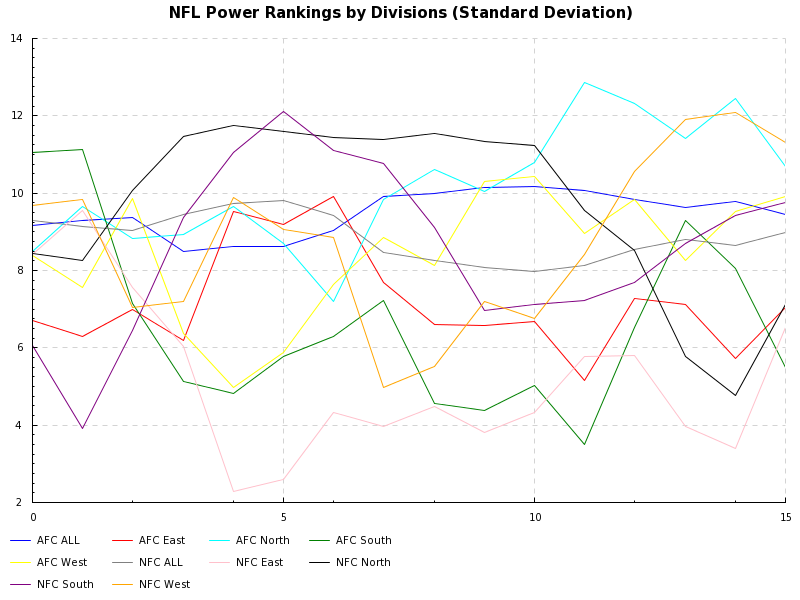
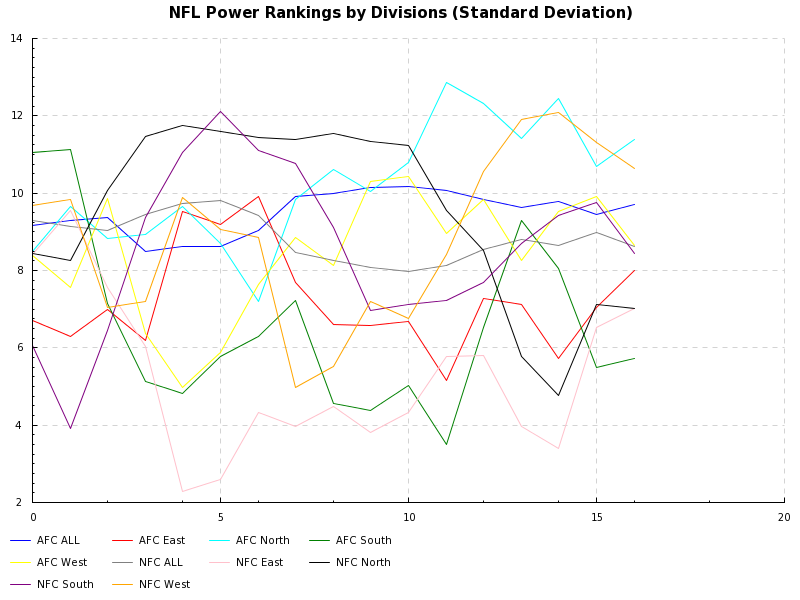
Week 16.

diff --git a/README.md b/README.md
@@ -1,5 +1,22 @@
 ![average](https://github.com/mfine/nfl-divisions-power-rankings/blob/master/RESULTS-average.png)
 ![std dev](https://github.com/mfine/nfl-divisions-power-rankings/blob/master/RESULTS-std-dev.png)
+### Week-16
+
+```
+Division         Mean    Std Dev
+--------         ----    -------
+NFC West        13.00      10.63
+AFC East        13.25       8.01
+AFC West        14.50       8.65
+NFC North       15.25       7.01
+NFC ALL         15.50       8.61
+NFC South       15.50       8.44
+AFC ALL         17.50       9.71
+AFC North       17.75      11.39
+NFC East        18.25       7.01
+AFC South       24.50       5.72
+```
+
 ### Week-15
 
 ```
